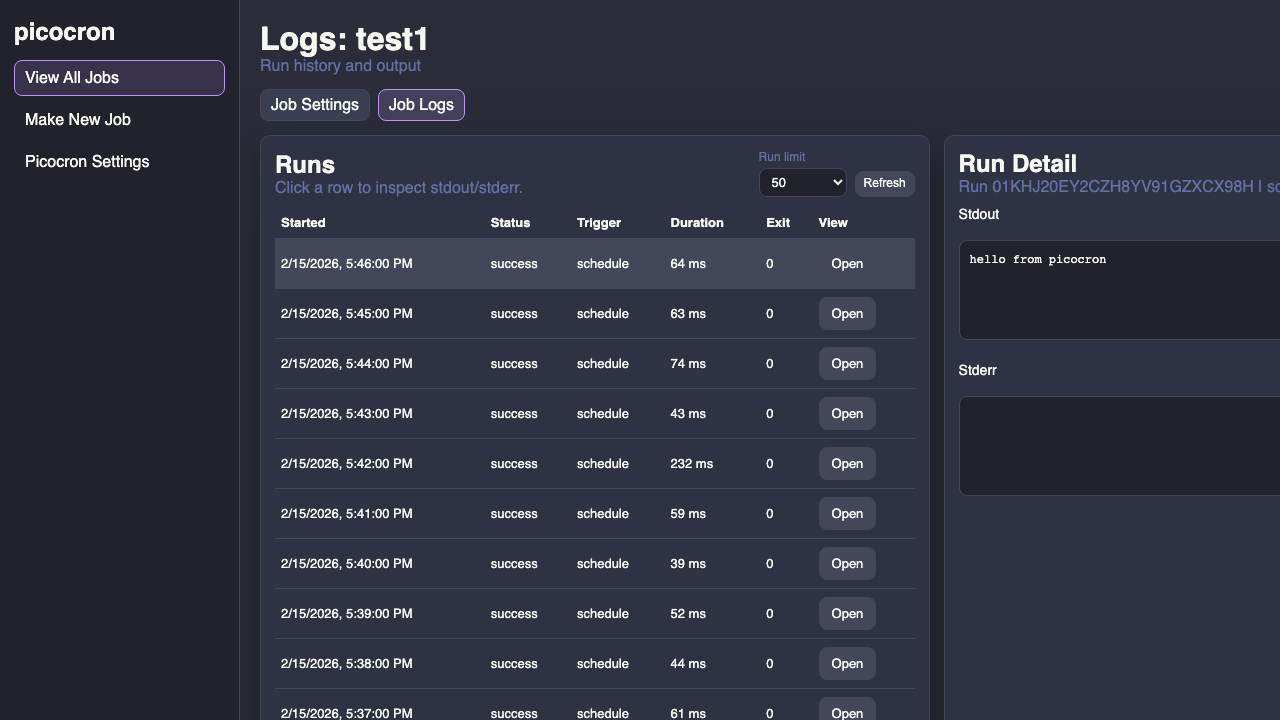
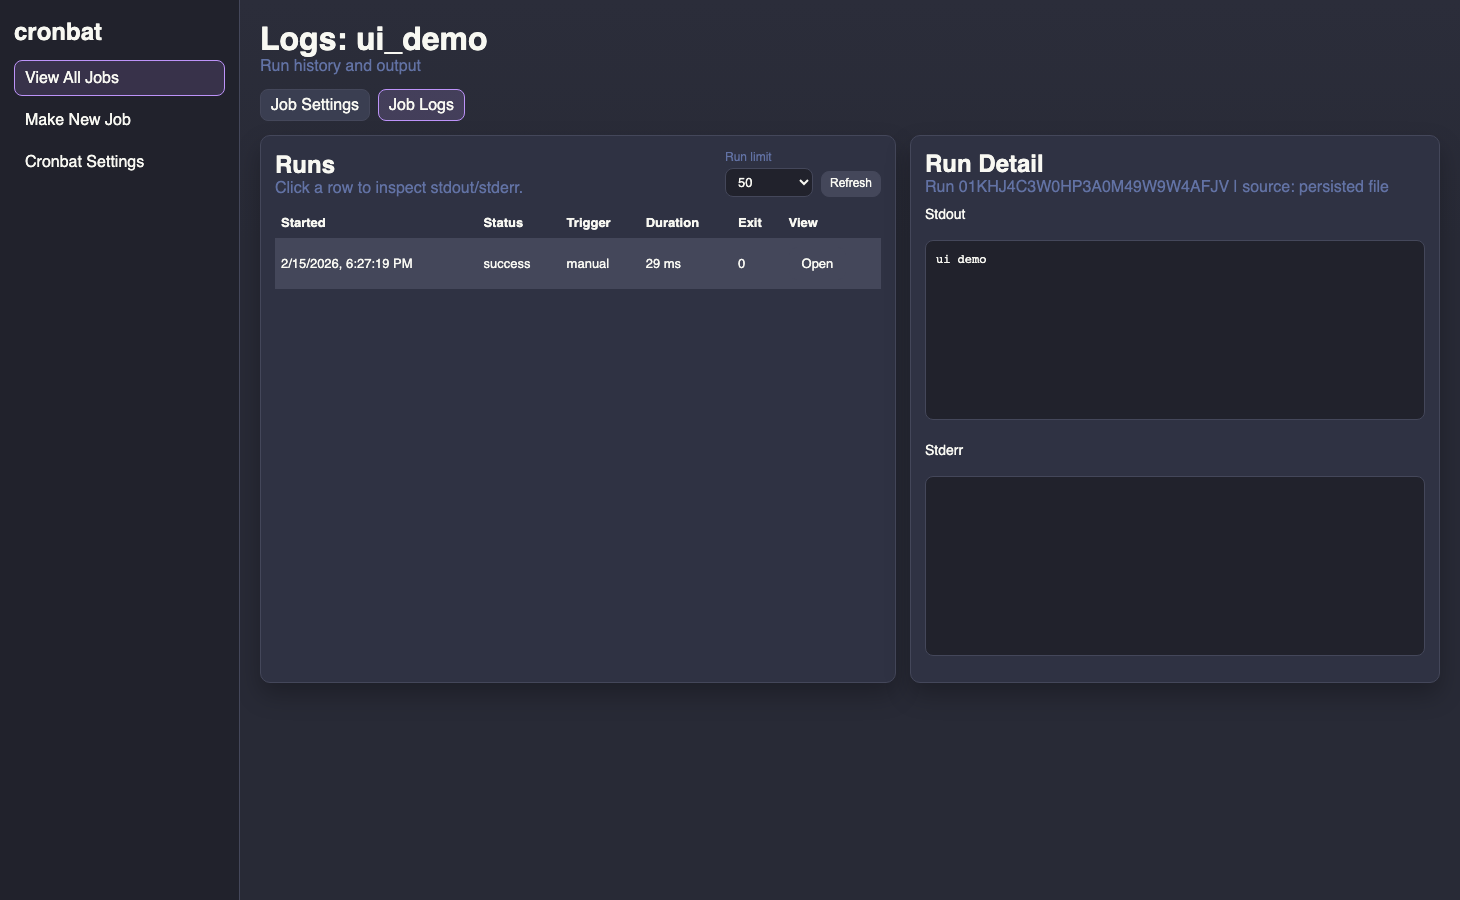
ui: make job logs page responsive and refresh screenshot

diff --git a/internal/web/ui/static/logs.html b/internal/web/ui/static/logs.html
@@ -18,7 +18,7 @@
     </aside>
 
     <main class="workspace">
-      <section class="container">
+      <section class="container logs-page">
         <header class="page-header">
           <div>
             <h1 id="job-title">Job Logs</h1>

diff --git a/internal/web/ui/static/styles.css b/internal/web/ui/static/styles.css
@@ -58,6 +58,11 @@ p {
   margin: 0;
 }
 
+.container.logs-page {
+  width: 100%;
+  margin: 0;
+}
+
 .app-shell {
   min-height: 100vh;
   display: grid;

diff --git a/README.md b/README.md
@@ -22,7 +22,7 @@ All screenshots are from the built-in UI (`/ui/`).
 
 ![Jobs dashboard](docs/screenshots/jobs.png)
 ![Job details](docs/screenshots/job-details.png)
-![Job logs](docs/screenshots/job-logs.png)
+![Job logs (responsive layout)](docs/screenshots/job-logs.png)
 
 ## Quick Start
 
